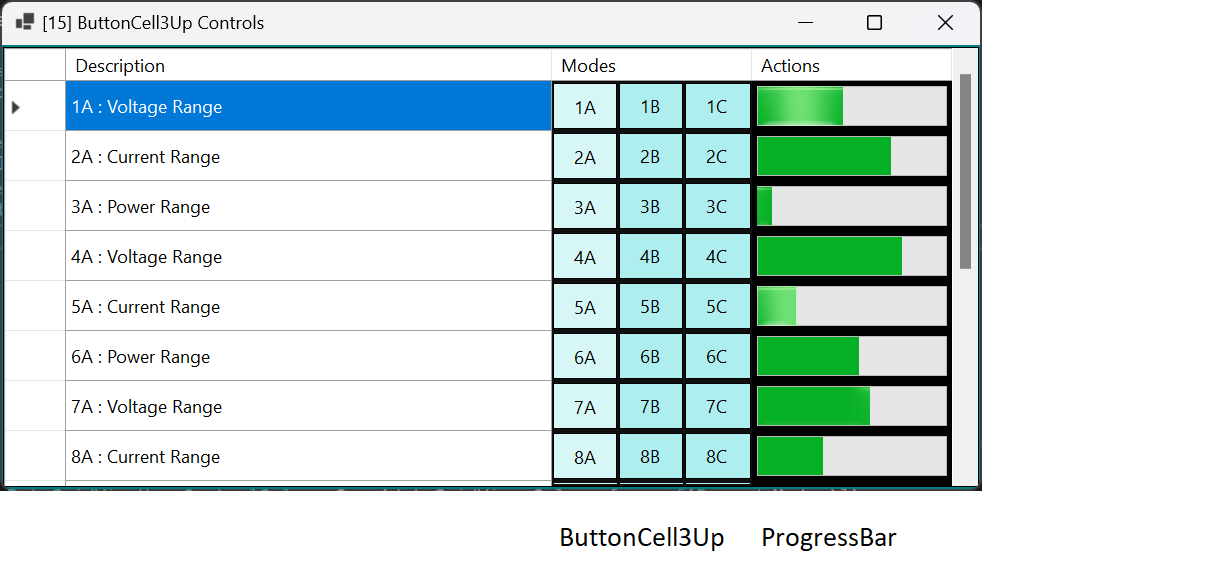
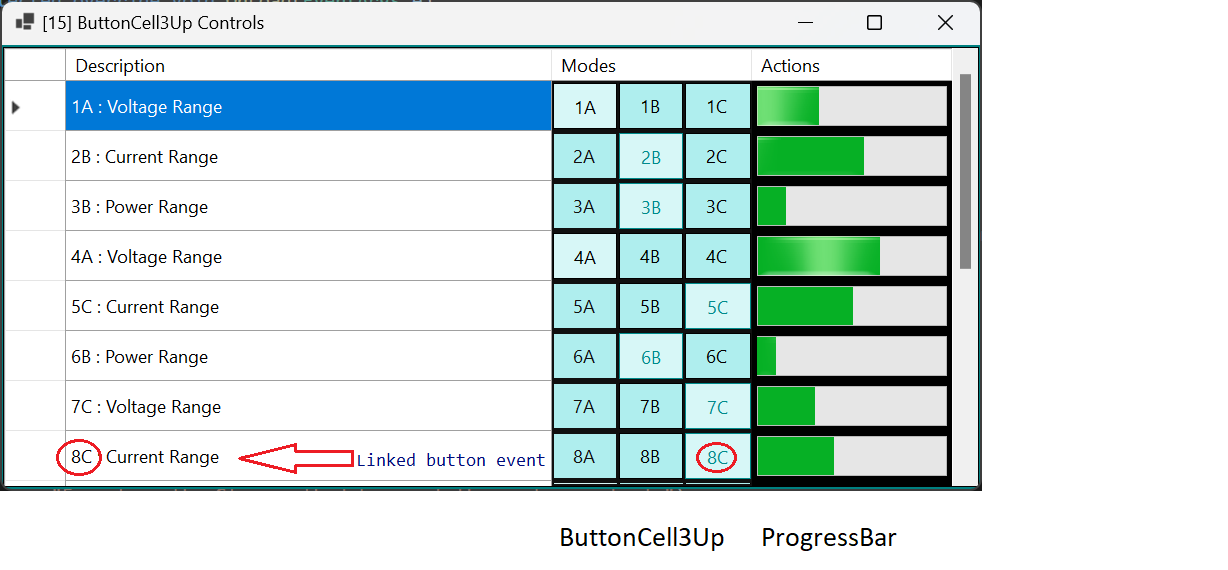
Drawing LBFs

diff --git a/datagridviewcell-with-three-horizontal-buttons/DataGridViewUserControlColumn.cs b/datagridviewcell-with-three-horizontal-buttons/DataGridViewUserControlColumn.cs
@@ -42,6 +42,10 @@ namespace datagridviewcell_with_three_horizontal_buttons
                 DataGridView.Invalidated += (sender, e) =>refresh();
                 DataGridView.Scroll += (sender, e) =>refresh();
                 DataGridView.SizeChanged += (sender, e) =>refresh();
+                DataGridView.Parent.SizeChanged += (sender, e) =>
+                {
+                   // refresh();
+                };
             }
             _dataGridView = DataGridView;
         }
@@ -143,20 +147,29 @@ namespace datagridviewcell_with_three_horizontal_buttons
             DataGridViewAdvancedBorderStyle advancedBorderStyle,
             DataGridViewPaintParts paintParts)
         {
-            if (DataGridView.Rows[rowIndex].IsNewRow)
+            using (var brush = new SolidBrush(getBackColor(@default: Color.Azure)))
             {
-                graphics.FillRectangle(Brushes.Azure, cellBounds);
+                graphics.FillRectangle(brush, cellBounds);
+            }
+            if (DataGridView.Rows[rowIndex].IsNewRow)
+            {   /* G T K */
             }
             else
             {
-                Style = _column.DefaultCellStyle;
                 if (TryGetControl(out var control))
                 {
                     SetLocationAndSize(cellBounds, control);
                 }
             }
+            Color getBackColor(Color @default)
+            {
+                if((_column != null) && (_column.DefaultCellStyle != null))
+                {
+                    Style = _column.DefaultCellStyle;
+                }
+                return Style.BackColor.A == 0 ? @default : Style.BackColor;
+            }
         }
-
         public void SetLocationAndSize(Rectangle cellBounds, Control control, bool visible = true)
         {
             control.Location = new Point(
@@ -168,7 +181,6 @@ namespace datagridviewcell_with_three_horizontal_buttons
                 cellBounds.Height - (Style.Padding.Top + Style.Padding.Bottom));
             control.Visible = visible;
         }
-
         public bool TryGetControl(out Control control)
         {
             control = null;
@@ -191,16 +203,12 @@ namespace datagridviewcell_with_three_horizontal_buttons
                         }
                     }
                 }
-                catch (Exception ex)
-                {
+                catch (Exception ex) {
                     Debug.Assert(false, ex.Message);
                 }
                 _control = control;
             }
-            else
-            {
-                control = _control;
-            }
+            else control = _control;
             return _control != null;
         }
     }

diff --git a/datagridviewcell-with-three-horizontal-buttons/MainForm.cs b/datagridviewcell-with-three-horizontal-buttons/MainForm.cs
@@ -78,10 +78,25 @@ namespace datagridviewcell_with_three_horizontal_buttons
             Modes.TextChanged += (sender, e) =>
                 OnPropertyChanged(nameof(Description));
             Actions.Click += (sender, e) =>
-            {
-                _ = execTask();
-            };
+                { _ = execTask(); };
         }
+        public string Description
+        {
+            get => $"{Modes.Text} : {_description}";
+            set
+            {
+                if (!Equals(_description, value))
+                {
+                    _description = value;
+                    OnPropertyChanged();
+                }
+            }
+        }
+        string _description = string.Empty;
+        #region B O U N D    C O N T R O L S    o f    A N Y    T Y P E   
+        public ButtonCell3Up Modes { get; } = new ButtonCell3Up();
+        public ProgressBar Actions { get; } = new ProgressBar { Value = 1 };  
+        #endregion B O U N D    C O N T R O L S    o f    A N Y    T Y P E   
 
         private async Task execTask()
         {
@@ -92,29 +107,8 @@ namespace datagridviewcell_with_three_horizontal_buttons
                 Actions.Value++;
             }
         }
-
         private void onModesTextChanged(object sender, EventArgs e) =>
             OnPropertyChanged(nameof(Description));
-
-        string _description = string.Empty;
-        public string Description
-        {
-            get
-            {
-                return $"{Modes.Text} : {_description}";
-            }
-            set
-            {
-                if (!Equals(_description, value))
-                {
-                    _description = value;
-                    OnPropertyChanged();
-                }
-            }
-        }
-        // This can be any type of Control.
-        public ButtonCell3Up Modes { get; } = new ButtonCell3Up(); 
-        public ProgressBar Actions { get; } = new ProgressBar { Value = 1 }; 
 
         public event PropertyChangedEventHandler PropertyChanged;
         protected virtual void OnPropertyChanged([CallerMemberName] string? propertyName = null)
